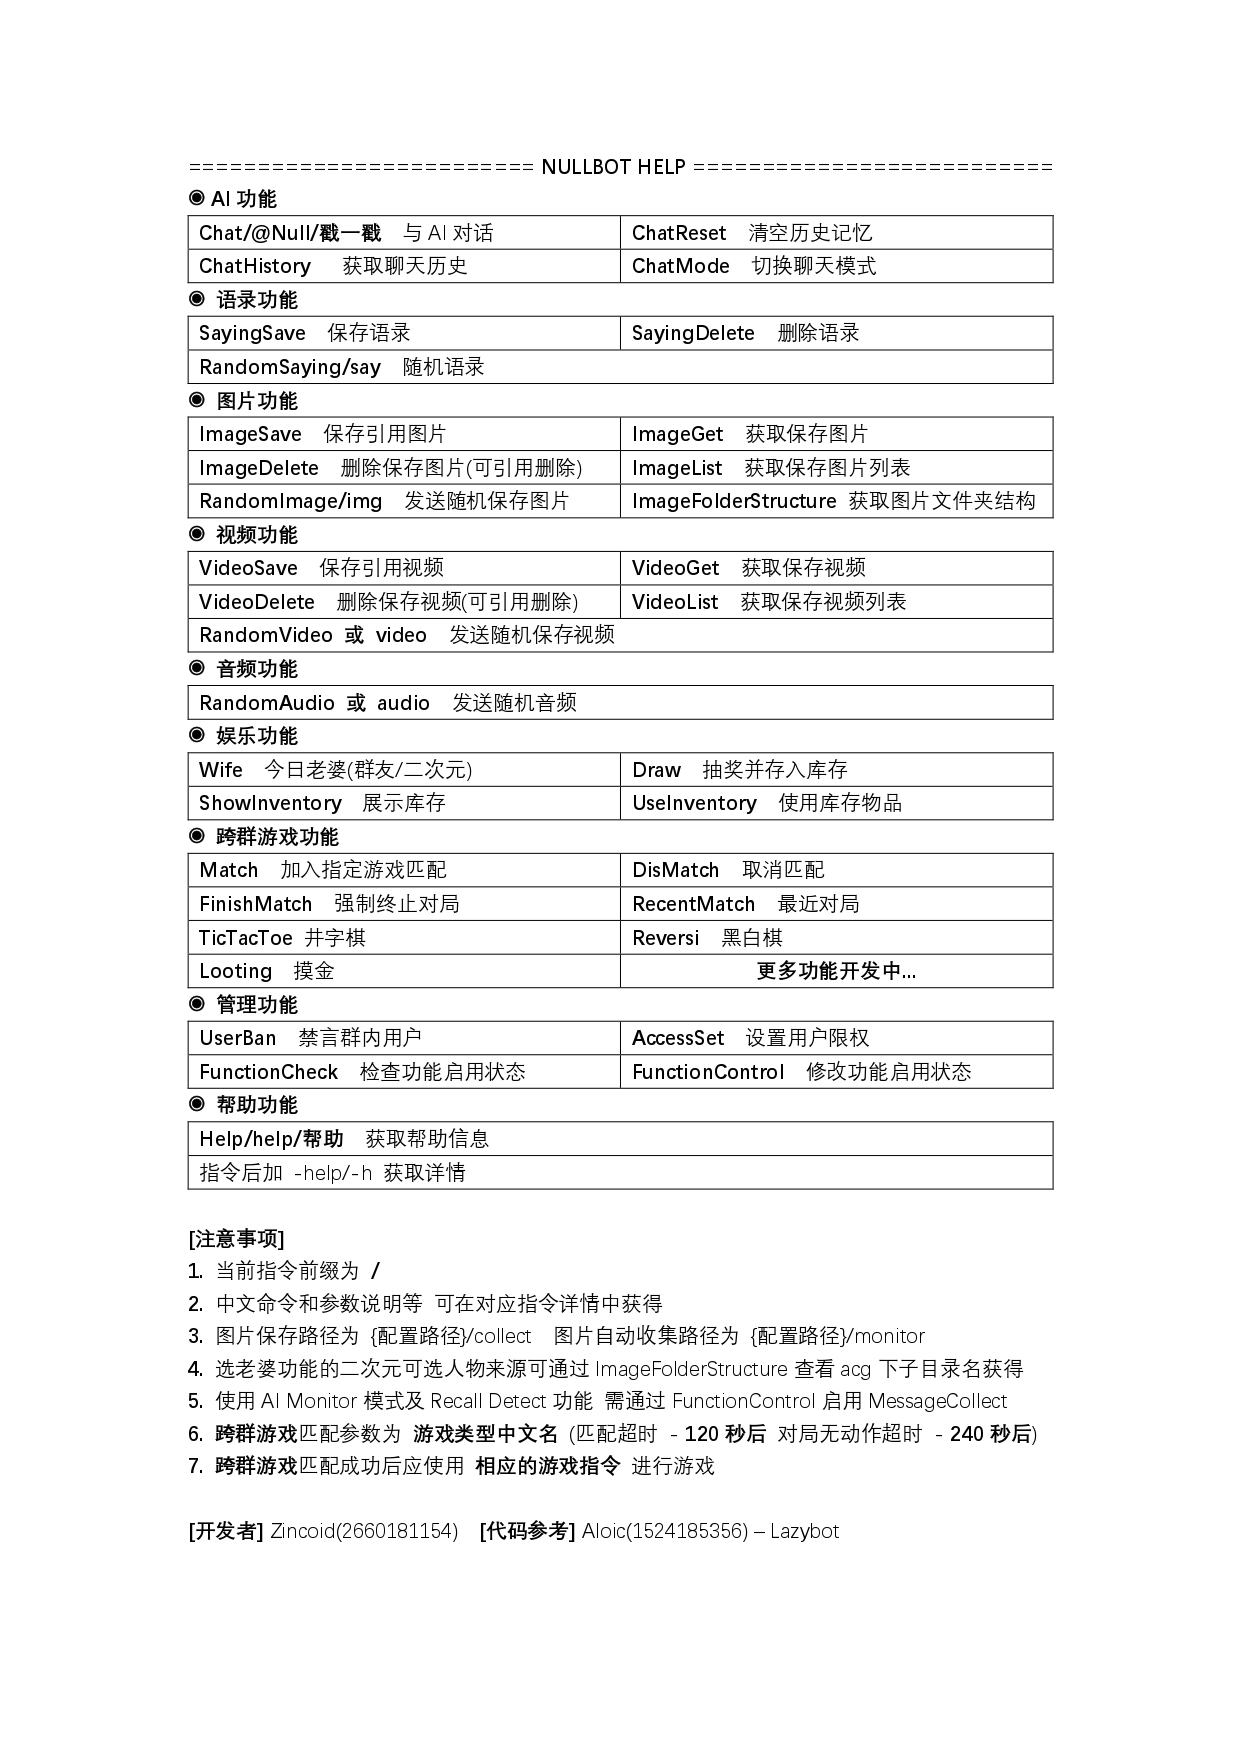
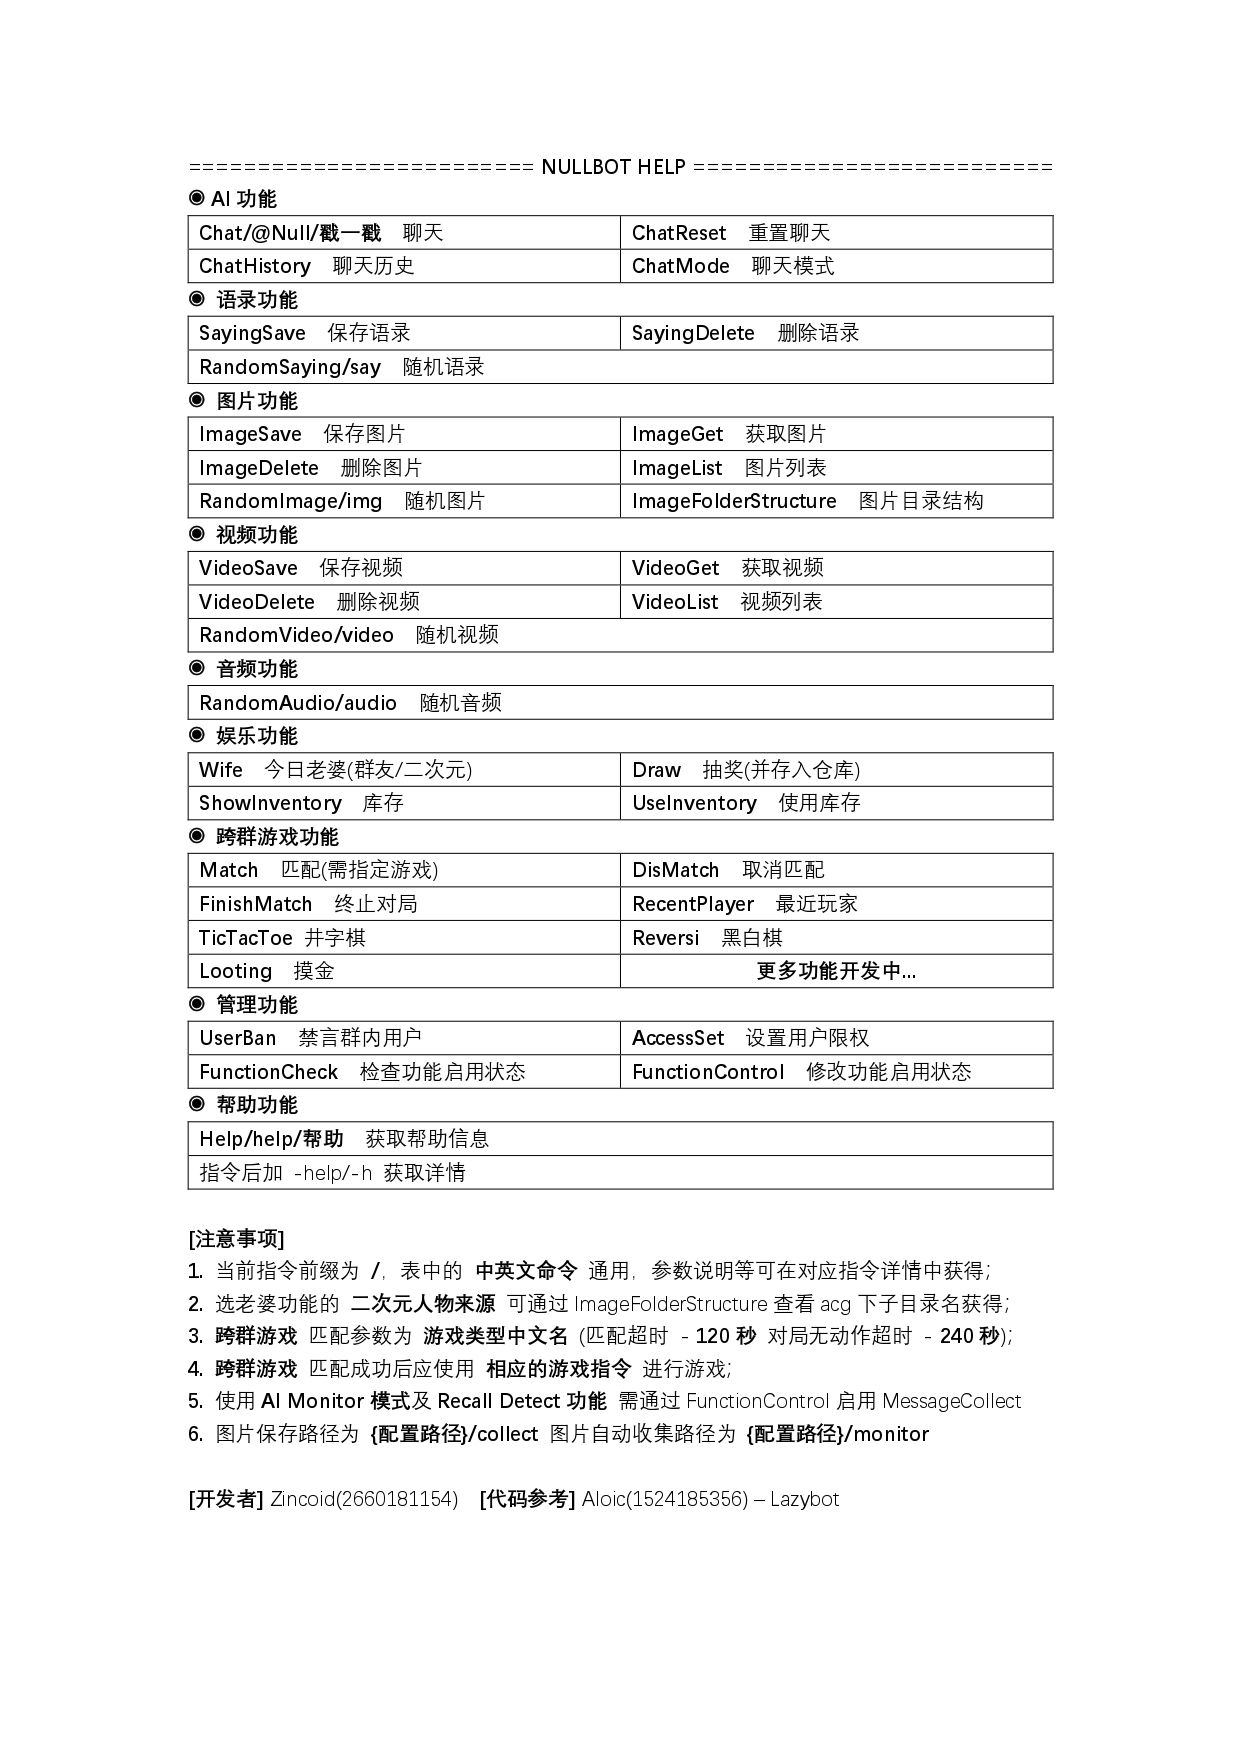
Changes

diff --git a/src/main/java/org/bot/nullbot/command/game/basic/FinishMatchCommand.java b/src/main/java/org/bot/nullbot/command/game/basic/FinishMatchCommand.java
@@ -10,7 +10,7 @@ import org.bot.nullbot.component.game.Matcher;
 import org.bot.nullbot.entity.CommandEvent;
 import org.springframework.stereotype.Component;
 
-@CommandMapping({"FinishMatch", "结束对局"})
+@CommandMapping({"FinishMatch", "终止对局"})
 @Component
 @Slf4j
 @RequiredArgsConstructor
@@ -34,7 +34,12 @@ public class FinishMatchCommand implements Command
     }
 
     @Override
+    public Integer getAccess() {
+        return 1;
+    }
+
+    @Override
     public String getHelp() {
-        return "◉ FinishMatch 命令\n功能: 结束自己的对局\n限权: " + getAccess() + "\n格式: FinishMatch\n中文命令: 结束对局";
+        return "◉ FinishMatch 命令\n功能: 强制终止自己正在进行的对局\n限权: " + getAccess() + "\n格式: FinishMatch\n中文命令: 终止对局";
     }
 }